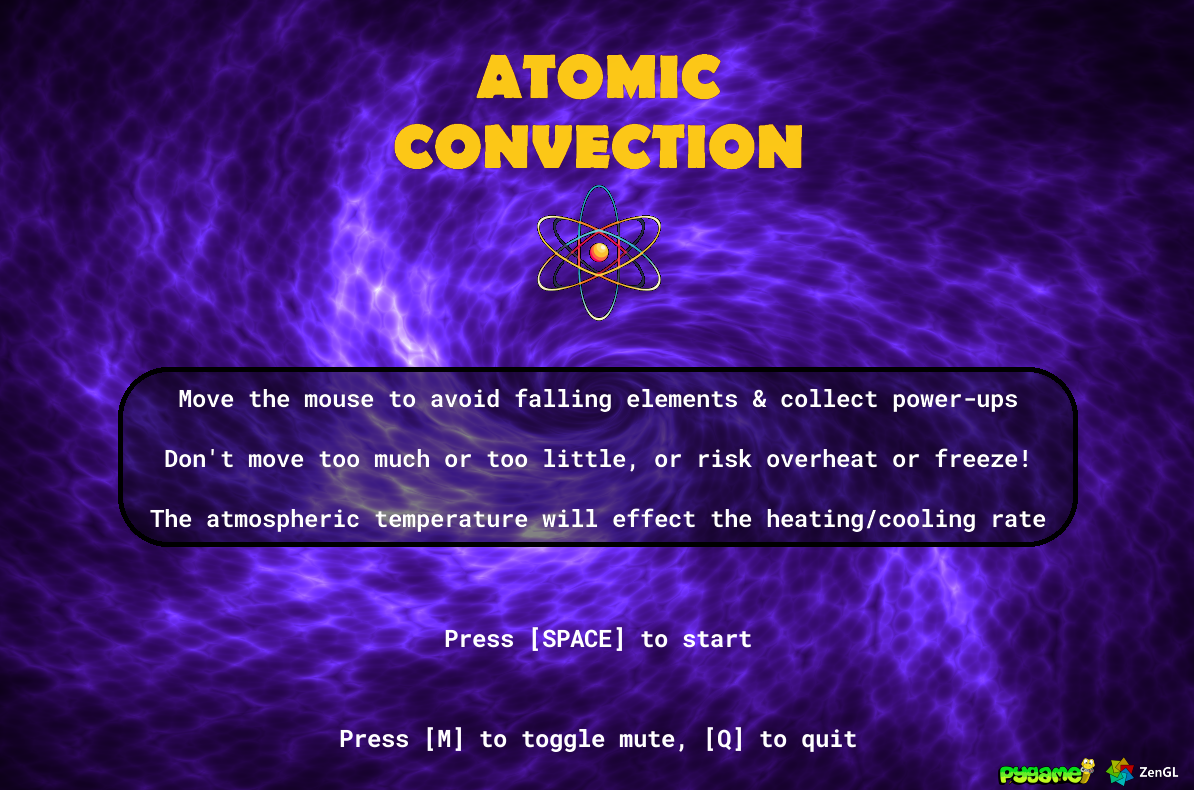
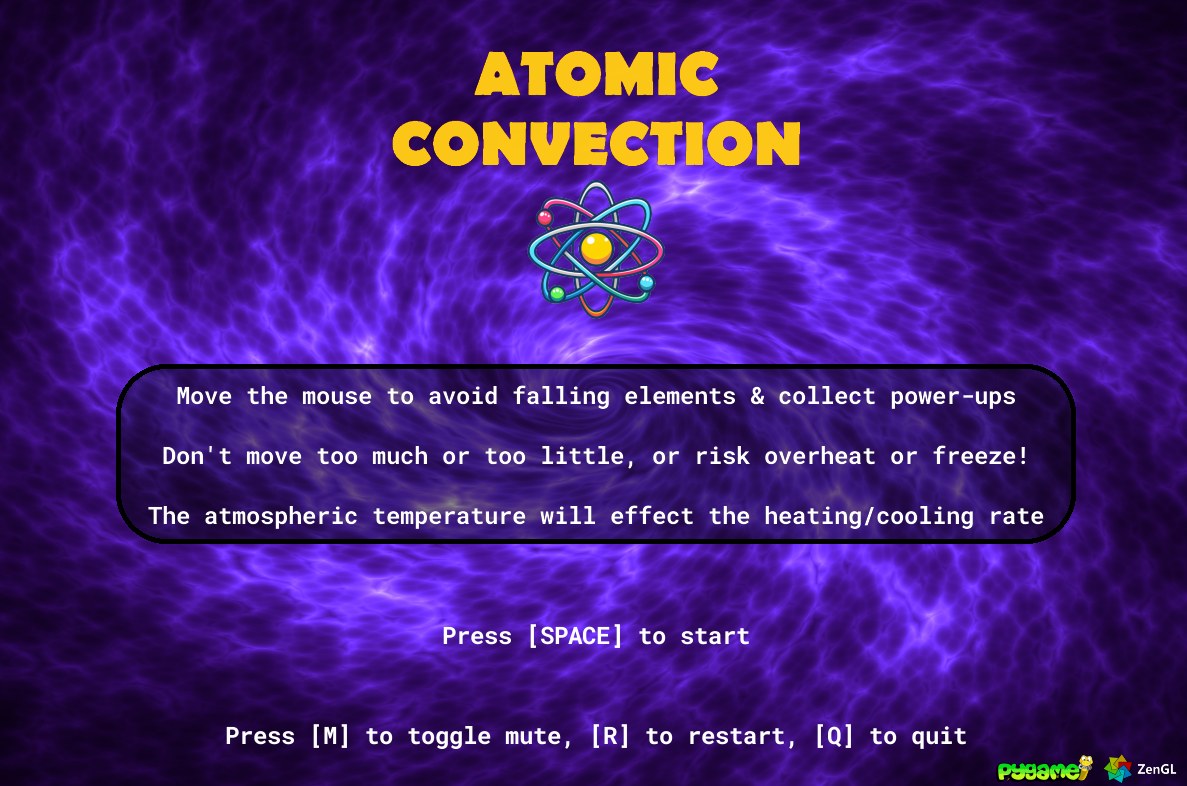
updates

diff --git a/src/entities.py b/src/entities.py
@@ -89,14 +89,31 @@ class Cursor(pg.sprite.Sprite):
         self.image = pg.transform.smoothscale(image, size)
         self.display_rect = self.image.get_rect()
         self.rect = self.display_rect.inflate(-30, -30)
+        glow_size = (self.display_rect.w * 2.5, self.display_rect.h * 2.5)
+        self.glow_surf = pg.Surface(glow_size, pg.SRCALPHA)
+        self.glow_rect = self.glow_surf.get_rect()
+        self.draw_gradient_circles()
 
     def update(self, dt):
         self.display_rect.center = pg.mouse.get_pos()
         self.rect.center = self.display_rect.center
+        self.glow_rect.center = self.rect.center
 
     def draw(self, screen: pg.Surface):
+        screen.blit(self.glow_surf, self.glow_rect)
         screen.blit(self.image, self.display_rect)
-        
+    
+    def draw_gradient_circles(self):
+        center_color = (140, 140, 0)
+        max_radius = self.glow_rect.w // 2
+        center = self.glow_rect.center
+
+        for radius in range(max_radius, 0, -2):
+            alpha = 5 * (1 - (radius / max_radius) ** 12)
+            color = center_color + (alpha,)
+            temp_surface = pg.Surface((max_radius*2, max_radius*2), pg.SRCALPHA)
+            pg.draw.circle(temp_surface, color, (max_radius, max_radius), radius)
+            self.glow_surf.blit(temp_surface, (center[0]-max_radius, center[1]-max_radius))
 
 class InfoText(pg.sprite.Sprite):
     def __init__(

diff --git a/src/assets_mgr.py b/src/assets_mgr.py
@@ -17,7 +17,7 @@ class Assets:
         self.images: dict[str, pg.Surface] = {
             "title": pg.image.load("assets/images/title.png").convert_alpha(),
             "thermometer": pg.image.load("assets/images/thermometer.png").convert_alpha(),
-            "player": pg.image.load("assets/images/player.png").convert_alpha(),
+            "player": pg.image.load("assets/images/player2.png").convert_alpha(),
             "power_up": pg.image.load("assets/images/power_up.png").convert_alpha(),
             "lose_life": self.create_info_text("-1 Life", (255, 0, 0)),
             "score": self.create_info_text("+250 Score", (255, 255, 255)),

diff --git a/src/app.py b/src/app.py
@@ -79,7 +79,8 @@ class App:
                 sfx["sound"].set_volume(sfx["volume"])
 
     def handle_events(self, event: pg.Event):
-        any_input = event.type == pg.MOUSEBUTTONDOWN or event.type == pg.KEYDOWN
+        mouse_click = event.type == pg.MOUSEBUTTONDOWN and event.button == 1
+        any_input = mouse_click or event.type == pg.KEYDOWN
 
         if event.type == pg.QUIT or (event.type == pg.KEYDOWN and event.key == pg.K_q):
             self.state = "quitted"

diff --git a/main.py b/main.py
@@ -13,3 +13,4 @@ from src.app import App
 if __name__ == "__main__":
     app = App()
     asyncio.run(app.run())
+ 

diff --git a/README.md b/README.md
@@ -7,7 +7,7 @@ An arcade style temperature themed mouse movement game, made for the Pygame-CE S
 Move the mouse to avoid falling elements & collect power-ups.
 Don't move too much or too little, or risk overheat or freeze!
 The atmospheric temperature will effect the heating/cooling rate.
-
+d
 ## Play Online
 https://djorm.itch.io/atomic-convection
 
